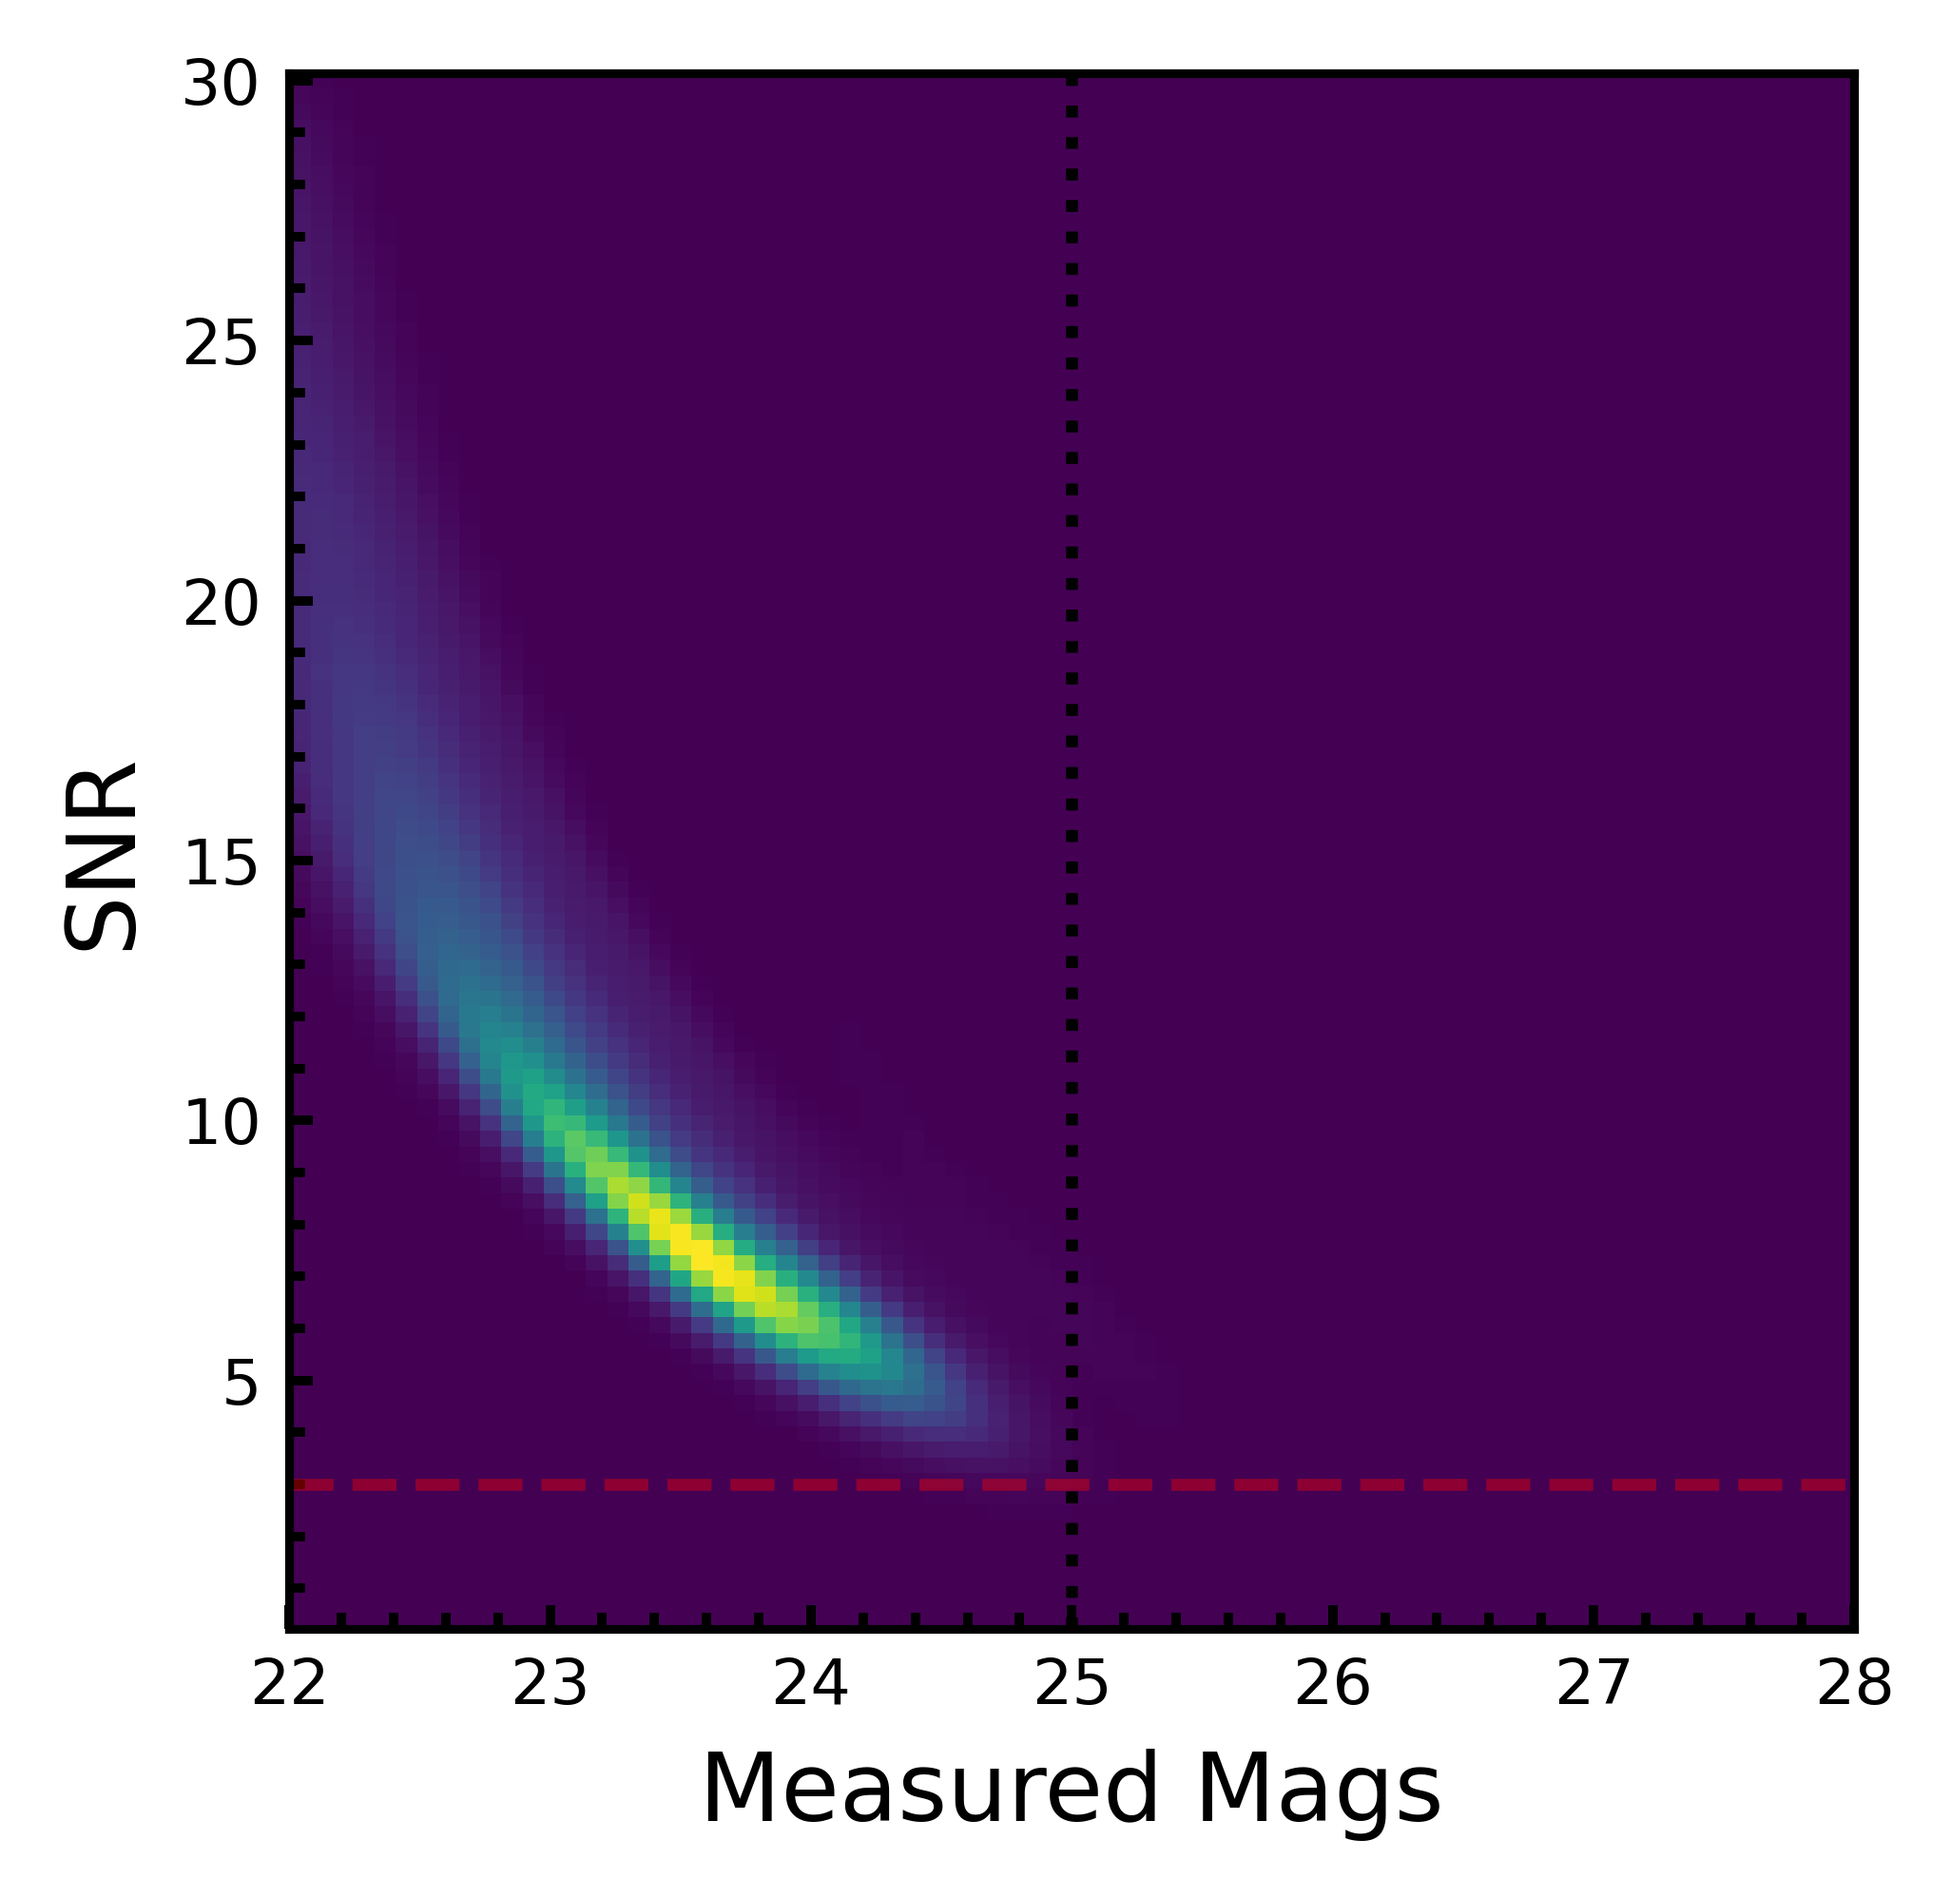
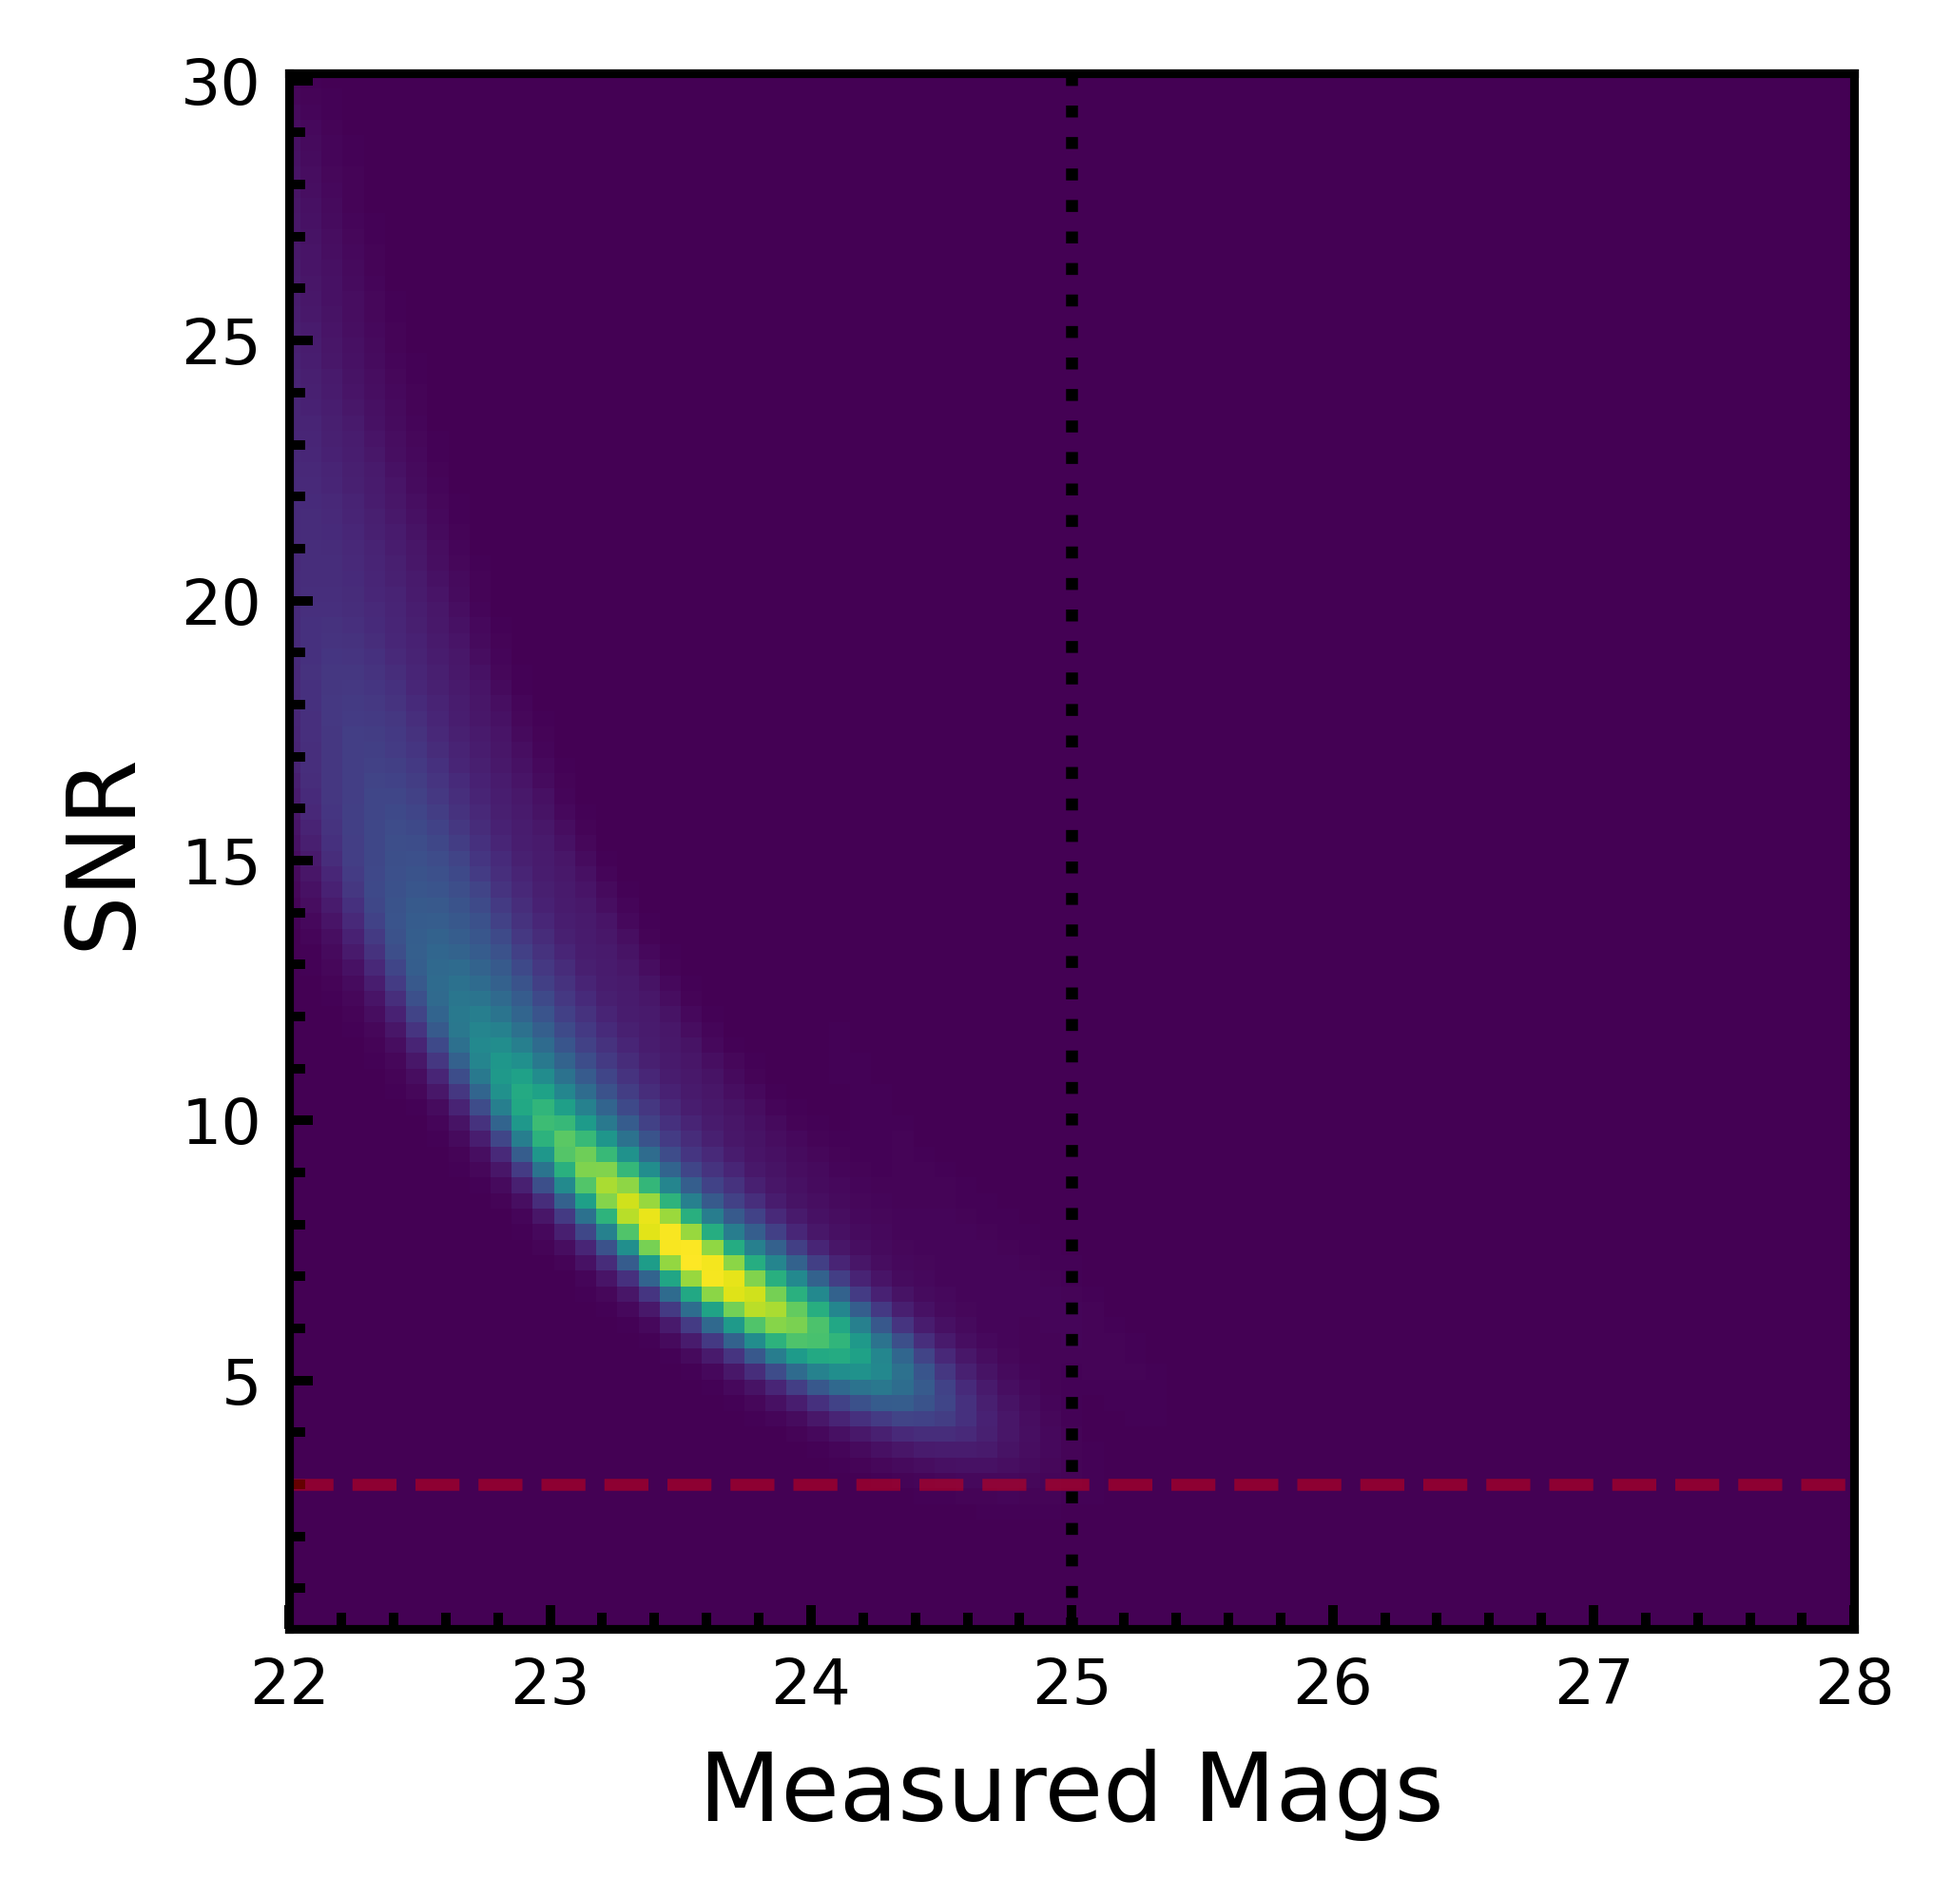
Updated selection

Changed region(s): [[0.1871, 0.497, 0.4678, 0.7455], [0.4678, 0.7144, 0.499, 0.7455]]

diff --git a/identify_candidates_v2.py b/identify_candidates_v2.py
@@ -10,7 +10,6 @@ import astropy.units as u
 import convert_sexcat_into_region as con
 import postage_stamps as ps
 from gui import start_gui
-from k_constant import calculate_k_constant_mag
 from zero_points import zero_points
 
 RED_LIST_NAME = 'candidates_red_list.txt'
@@ -79,13 +78,19 @@ def remove_bad_values(ra_array, dec_array):
 
 if __name__ == '__main__':
     INFILE_N964 = '../correct_stacks/N964/n964.cat'
+    INFILE_N964_135 = '../correct_stacks/N964/n964_135.cat'
     INFILE_I = '../correct_stacks/N964/i.cat'
     INFILE_Z = '../correct_stacks/N964/z.cat'
 
-    #1. mag < 24.8 for the N964 filter.
+    #1. mag < 24.2 for the N964 filter in 2" and mag < 24 in 1.35" apertures.
     inst_mag_n964, mag_err_n964, snr_n964 = read_all(INFILE_N964)
     mag_n964 = inst_mag_n964 + zero_points.n964_band.mag_correct(1)
+
+    inst_mag_135, mag_err_135, snr_135 = read_all(INFILE_N964_135)
+    mag_135 = inst_mag_135 + zero_points.n964_band.mag_correct(1.35/2)
     first_cut = np.where(mag_n964<24.2)[0]
+    another_cut = np.where(mag_135 < 24)[0]
+    first_cut = np.intersect1d(first_cut, another_cut)
 
     #2. mag > 25.8 for the i band filter.
     inst_mag_i, mag_err_i, snr_i = read_all(INFILE_I)

diff --git a/plot_depth.py b/plot_depth.py
@@ -59,10 +59,13 @@ if __name__ == '__main__':
     INFILE_SEX_I = '../correct_stacks/N964/i.cat'
     INFILE_SEX_Z = '../correct_stacks/N964/z.cat'
     INFILE_SEX_N = '../correct_stacks/N964/n964.cat'
+    INFILE_SEX_N_135 = '../correct_stacks/N964/n964_135.cat'
     I_ZPT = zero_points.i_band.mag_correct(1)
     Z_ZPT = zero_points.z_band.mag_correct(1)
     N_ZPT = zero_points.n964_band.mag_correct(1)
+    N_ZPT_135 = zero_points.n964_band.mag_correct(1.35/2)
 
     plot_depth(INFILE_SEX_I, I_ZPT, 'i')
     plot_depth(INFILE_SEX_Z, Z_ZPT, 'z')
     plot_depth(INFILE_SEX_N, N_ZPT, 'n964')
+    #plot_depth(INFILE_SEX_N_135, N_ZPT_135, 'n964')
